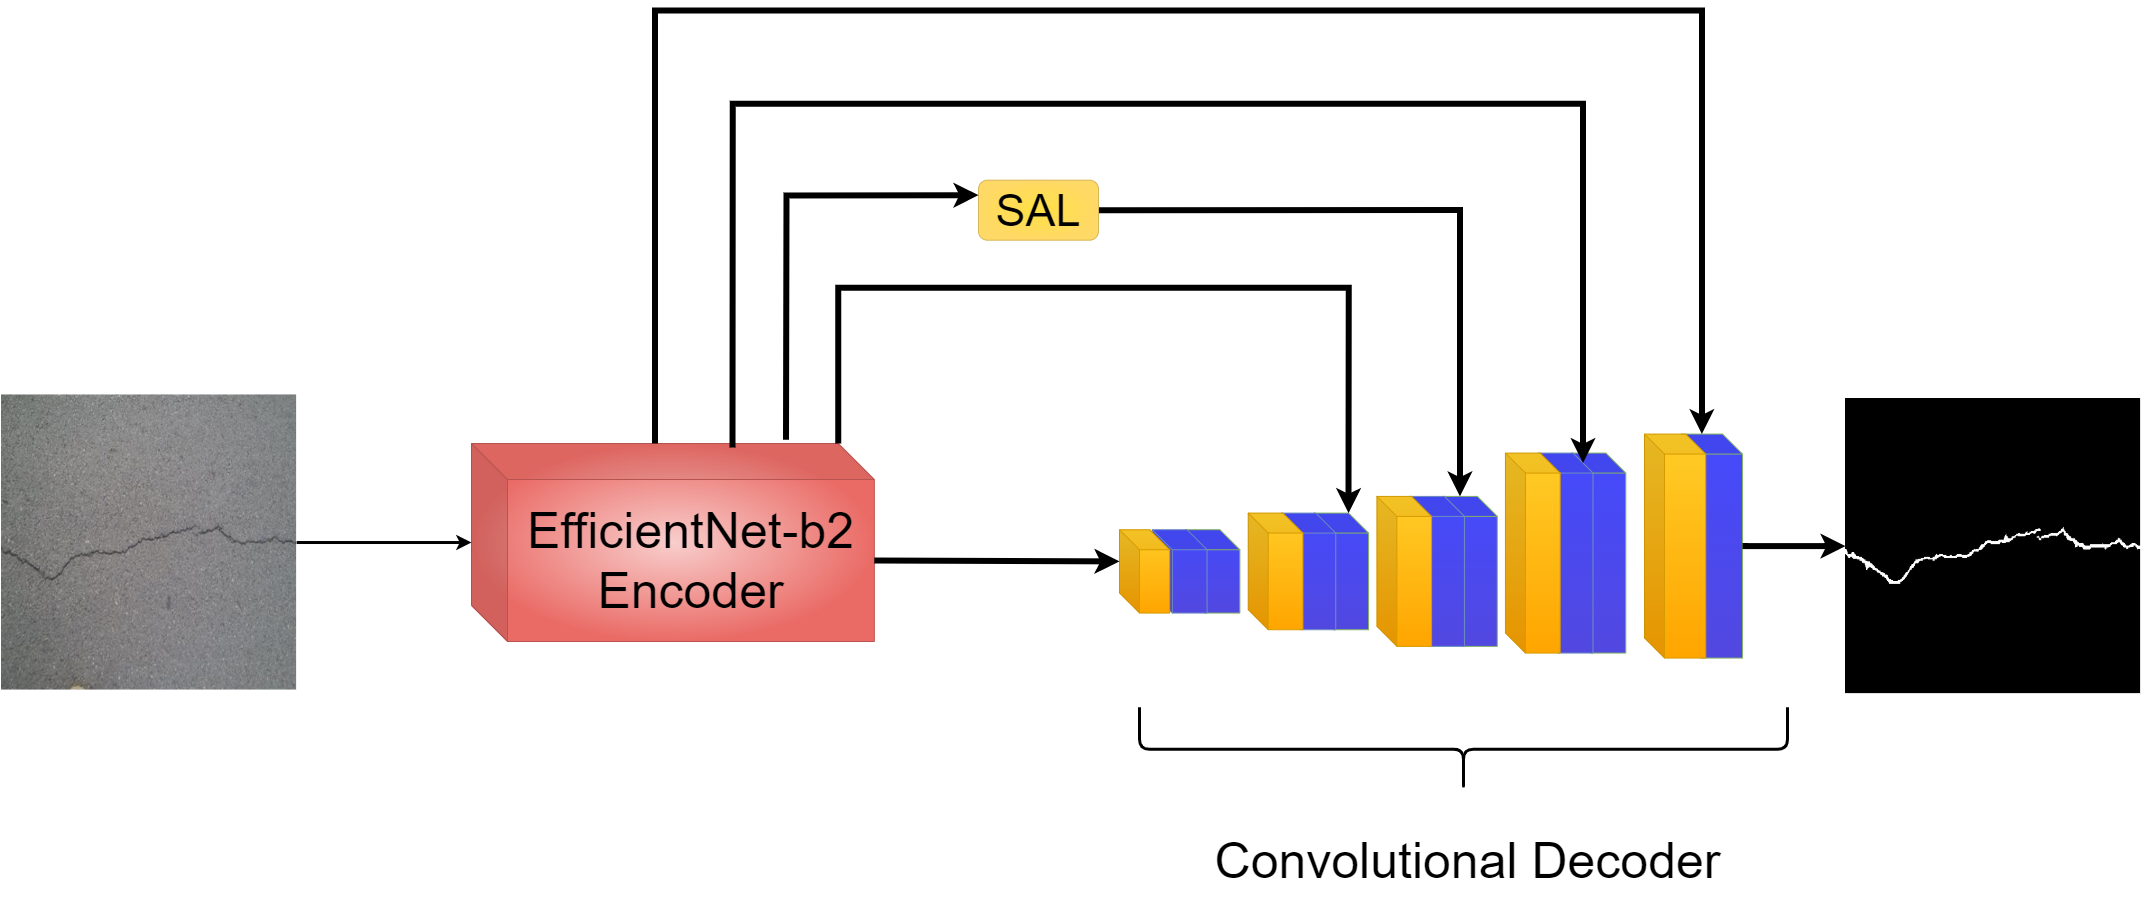
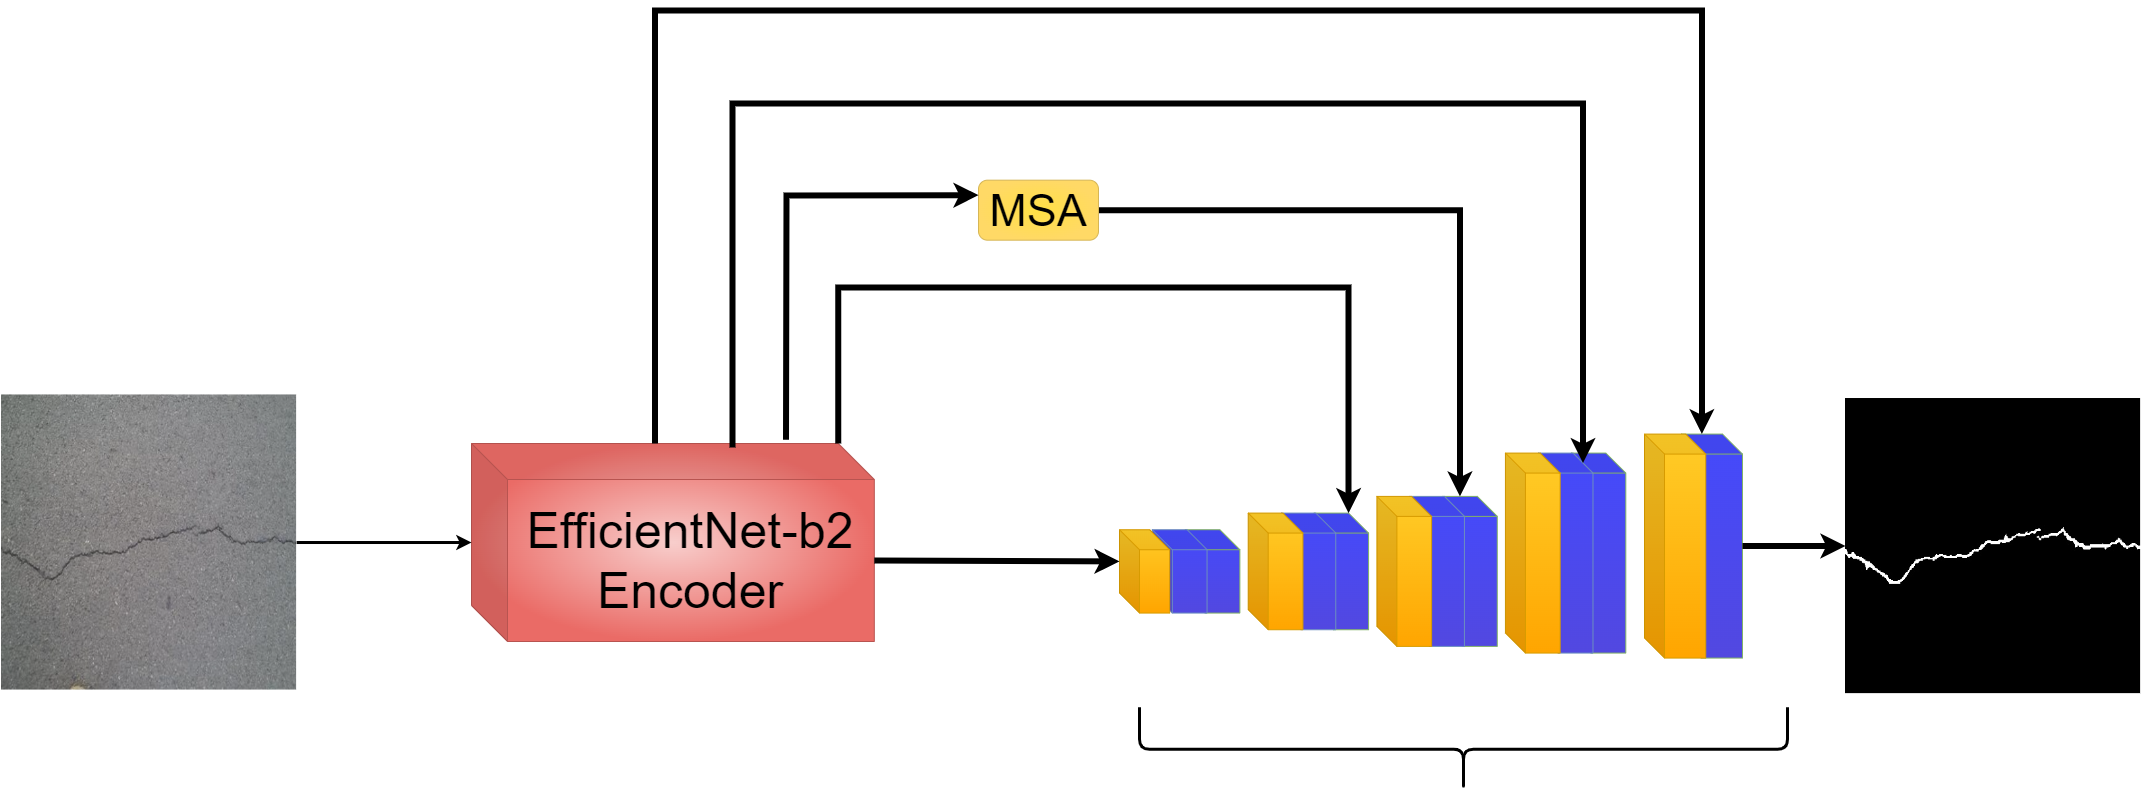
Documentation updated, evaluate script completeted, requirements.txt add

diff --git a/evaluate.py b/evaluate.py
@@ -1,0 +1,207 @@
+import argparse
+import os
+from glob import glob
+from time import time
+
+import pandas as pd
+from PIL import ImageOps, Image
+from torch.utils.data import DataLoader
+from torchvision import transforms
+from tqdm import tqdm
+
+from config import valLoaderConfig, modelConfig
+from dataset import CrackDataTest
+# local imports
+from model.modelMain import Unet
+from utils.utils import *
+
+
+def score_per_sample(model, dataset, criteria, save_path, split="test"):
+    results_test = {"img": [], "test_loss": [], "test_dice": [], "test_iou": [], "test_acc": [],
+                    "test_pre": [], "test_rec": [], "test_f1": []}
+    model = model.cpu()
+    idx = 0
+    with torch.inference_mode():
+        bar = tqdm(range(len(dataset)))
+        for i in bar:
+            images, masks, path = dataset[i]
+            images, masks = images.cpu(), masks.cpu()
+            images = images.unsqueeze(dim=0)
+
+            mask_pred = model(images)
+            masks_2 = (torch.sigmoid(mask_pred.cpu()) >= 0.5).int()
+
+            loss = criteria(masks_2, masks)
+            results_test['img'].append(path)
+            results_test['test_loss'].append(loss.item())
+            results_test['test_dice'].append(compute_dice2(masks_2, masks).item())
+            results_test['test_iou'].append(get_IoU(masks_2, masks).item())
+            results_test['test_acc'].append(accuracy(masks_2, masks).item())
+            p, r, f = precision_recall_f1(masks_2, masks)
+            results_test['test_pre'].append(p.item())
+            results_test['test_rec'].append(r.item())
+            results_test['test_f1'].append(f.item())
+            bar.set_description(f"Saving Test Results")
+            idx += 1
+
+    data_frame = pd.DataFrame(data=results_test)
+    data_frame.to_csv(f'{save_path}/results_per_image_{split}.csv')
+    return
+
+
+def plot_test(model, dataset, criteria, save_plots, save_path, split="test"):
+    idx = 0
+    if not os.path.exists(save_plots):
+        os.makedirs(save_plots)
+
+    results_test = {"img": [], "test_loss": [], "test_dice": [], "test_iou": [], "test_acc": [],
+                    "test_pre": [], "test_rec": [], "test_f1": []}
+    model = model.cpu()
+    with torch.no_grad():
+        bar = tqdm(range(len(dataset)))
+        for i in bar:
+            images, masks, path = dataset[i]
+            images, masks = images.cpu(), masks.cpu()
+            images = images.unsqueeze(dim=0)
+
+            mask_pred = model(images)
+            masks_2 = (torch.sigmoid(mask_pred.cpu()) >= 0.5).int()
+
+            loss = criteria(masks_2, masks)
+            results_test['img'].append(path)
+            results_test['test_loss'].append(loss.item())
+            results_test['test_dice'].append(compute_dice2(masks_2, masks).item())
+            results_test['test_iou'].append(get_IoU(masks_2, masks).item())
+            results_test['test_acc'].append(accuracy(masks_2, masks).item())
+            p, r, f = precision_recall_f1(masks_2, masks)
+            results_test['test_pre'].append(p.item())
+            results_test['test_rec'].append(r.item())
+            results_test['test_f1'].append(f.item())
+
+            # print(images.shape, masks.shape, masks_2.shape)
+            masks *= 255.
+            masks_2 = masks_2.squeeze(dim=0)
+            masks_2 = masks_2.to(torch.float)
+            masks_2 *= 255.
+            image = transforms.ToPILImage()(images[0])
+            gt = transforms.ToPILImage()(masks.byte().cpu())
+            pred = transforms.ToPILImage()(masks_2.byte().cpu())
+
+            image = ImageOps.expand(image, border=5, fill='white')
+            gt = ImageOps.expand(gt, border=5, fill='white')
+            pred = ImageOps.expand(pred, border=5, fill='white')
+
+            (img_width, img_height) = image.size
+            (gt_width, gt_height) = gt.size
+            (pred_width, pred_height) = pred.size
+
+            name = path.split('/')[-1][:-4]
+            final_width, final_height = (img_width + gt_width + pred_width), max(img_height,
+                                                                                 max(gt_height, pred_height))
+            result = Image.new('RGB', (final_width, final_height))
+            result.paste(im=image, box=(0, 0))
+            result.paste(im=gt, box=(img_width, 0))
+            result.paste(im=pred, box=(img_width + gt_width, 0))
+            result.save(f"{save_plots}/{name}_res.png")
+            bar.set_description(f"Saving Test Results")
+            idx += 1
+    data_frame = pd.DataFrame(data=results_test)
+    data_frame.to_csv(f'{save_path}/logs_finished_{split}.csv')
+    return
+
+
+def score(model, criteria, loader):
+    model.eval()
+    val_logs = init_log()
+    # Batch size should be 1
+    bar = tqdm(loader, dynamic_ncols=True)
+    start = time()
+    device = torch.device("cuda" if torch.cuda.is_available() else "cpu")
+    with torch.inference_mode():
+        for idx, data in enumerate(bar):
+            imgs, masks = data
+            imgs, masks = imgs.to(device), masks.to(device)
+
+            output = model(imgs)
+            output = output.squeeze(1)
+            op_preds = torch.sigmoid(output)
+            masks = masks.squeeze(1)
+            loss = criteria(op_preds, masks)
+
+            batch_size = imgs.size(0)
+            val_logs['loss'].update(loss.item(), batch_size)
+            val_logs['time'].update(time() - start)
+            val_logs['dice'].update(compute_dice2(op_preds, masks).item(), batch_size)
+            val_logs['iou'].update(get_IoU(op_preds, masks).item(), batch_size)
+            val_logs['acc'].update(accuracy(op_preds, masks).item(), batch_size)
+            p, r, f = precision_recall_f1(op_preds, masks)
+            val_logs['precision'].update(p.item(), batch_size)
+            val_logs['recall'].update(r.item(), batch_size)
+            val_logs['f1'].update(f.item(), batch_size)
+
+    return val_logs
+
+
+def getTestDataLoader(dfTest, **kwargs):
+    dataTest = CrackDataTest(dfTest,
+                             img_transforms=kwargs['val_data']['transforms'],
+                             mask_transform=kwargs['val_data']['transforms'],
+                             aux_transforms=None)
+    testLoader = DataLoader(dataTest,
+                            batch_size=kwargs['val_data']['batch_size'],
+                            shuffle=kwargs['val_data']['suffle'],
+                            pin_memory=torch.cuda.is_available(),
+                            num_workers=kwargs['val_data']['num_workers'])
+
+    return testLoader, dataTest
+
+
+def buildModel(config, modelPath=""):
+    device = torch.device("cuda" if torch.cuda.is_available() else "cpu")
+    model = Unet(encoder_name=config['encoderBackbone'])
+    model = model.to(device)
+    print("loading best model...")
+    model.load_state_dict(torch.load(modelPath, map_location=device))
+    return model
+
+
+def buildDataset(imgs_path, masks_path):
+    data = {
+        'images': sorted(glob(imgs_path + "/*.jpg")),
+        'masks': sorted(glob(masks_path + "/*.png"))
+    }
+
+    # test to see if there are images coresponding to masks
+    for img_path, mask_path in zip(data['images'], data['masks']):
+        assert img_path[:-4] == mask_path[:-4]
+
+    df = pd.DataFrame(data)
+    testLoader, dataTest = getTestDataLoader(df, val_data=valLoaderConfig)
+
+    return testLoader, dataTest
+
+
+if __name__ == '__main__':
+    parser = argparse.ArgumentParser()
+    parser.add_argument("--path_images", type=str, help="Enter path to images folder.")
+    parser.add_argument("--path_masks", type=str, help="Enter path to masks folder.")
+    parser.add_argument("--model_path", type=str, help="Path to model")
+    parser.add_argument("--result_path", type=str, help="Path to results")
+    parser.add_argument("--plot_path", type=str, help="Path where plot or predictions would be saved")
+
+    args = parser.parse_args()
+
+    image_path = args.path_images
+    masks_path = args.path_masks
+    model_path = args.model_path
+    plot_path = args.plot_path
+    out_path = args.result_path
+
+    testLoader, testDataset = buildDataset(image_path, masks_path)
+    model = buildModel(modelConfig, model_path)
+    criteria = TverskyLoss()
+
+    testLog = score(model, criteria, testLoader)
+    plot_test(model, testDataset, criteria, out_path, plot_path)
+
+

diff --git a/train.py b/train.py
@@ -13,28 +13,13 @@ import os
 
 # local imports
 from model.modelMain import Unet
-from dataLoader import CrackData
-from utils.averageMeter import AverageMeter
+from dataset import CrackData
 from utils.callbacks import CallBacks
 from utils.utils import *
 from utils.lrSchedular import OneCycleLR
-from config import train_loader_config, val_loader_config
+from config import trainLoaderConfig, valLoaderConfig, modelConfig
 
 RANDOM_STATE = 42
-
-
-def init_log():
-    log = {
-        'loss': AverageMeter(),
-        'time': AverageMeter(),
-        'iou': AverageMeter(),
-        'dice': AverageMeter(),
-        'acc': AverageMeter(),
-        'precision': AverageMeter(),
-        'recall': AverageMeter(),
-        'f1': AverageMeter()
-    }
-    return log
 
 
 def train_step(model, optim, criteria, loader, accumulation_steps, scaler, epoch, max_epochs):
@@ -148,9 +133,9 @@ def getDataLoaders(dfTrain, dfVal, **kwargs):
     return trainLoader, valLoader
 
 
-def buildModel(encoderBackbone='efficientnet-b2'):
+def buildModel(config):
     device = torch.device("cuda" if torch.cuda.is_available() else "cpu")
-    model = Unet(encoder_name=encoderBackbone)
+    model = Unet(encoder_name=config['encoderBackbone'])
     model = model.to(device)
     return model
 
@@ -169,8 +154,8 @@ def buildDataset(imgs_path, masks_path):
     dfTrain, dfVal = train_test_split(df, test_size=0.2, random_state=RANDOM_STATE, shuffle=True)
     trainLoader, valLoader = getDataLoaders(dfTrain,
                                             dfVal,
-                                            training_data=train_loader_config,
-                                            val_data=val_loader_config)
+                                            training_data=trainLoaderConfig,
+                                            val_data=valLoaderConfig)
 
     return trainLoader, valLoader
 
@@ -188,7 +173,7 @@ if __name__ == "__main__":
 
     trainLoader, valLoader = buildDataset(image_path, masks_path)
 
-    model = buildModel(encoderBackbone='efficientnet-b2')
+    model = buildModel(modelConfig)
 
     lr = 0.09
     device = torch.device("cuda" if torch.cuda.is_available() else "cpu")

diff --git a/dataset.py b/dataset.py
@@ -41,6 +41,39 @@ class CrackData(Dataset):
         return image, mask
 
 
+class CrackDataTest(Dataset):
+    def __init__(self, df, img_transforms=None, mask_transform=None, aux_transforms=None):
+        self.data = df
+        self.img_transform = img_transforms
+        self.mask_transform = mask_transform
+        self.aux_transforms = aux_transforms
+
+    def __len__(self):
+        return len(self.data)
+
+    def __getitem__(self, idx):
+        img = Image.open(self.data['images'].iloc[idx]).convert('RGB')
+        mask = Image.open(self.data['masks'].iloc[idx]).convert('L')
+
+        if self.aux_transforms is not None:
+            img = self.aux_transforms(img)
+
+        seed = np.random.randint(420)
+
+        random.seed(seed)
+        torch.manual_seed(seed)
+
+        img = transforms.functional.equalize(img)
+        image = self.img_transform(img)
+
+        random.seed(seed)
+        torch.manual_seed(seed)
+
+        mask = self.mask_transform(mask)
+
+        return image, mask, self.data['images'].iloc[idx]
+
+
 if __name__ == '__main__':
     dfT = {
         'images': ['../temp/test_img.jpg'],

diff --git a/config.py b/config.py
@@ -1,6 +1,6 @@
 from torchvision import transforms
 
-train_loader_config = {
+trainLoaderConfig = {
     'transforms': transforms.Compose([
         transforms.Resize((320, 320)),
         transforms.RandomHorizontalFlip(p=0.5),
@@ -12,11 +12,15 @@ train_loader_config = {
     'num_workers': 2
 }
 
-val_loader_config = {
+valLoaderConfig = {
     'transforms': transforms.Compose([transforms.Resize((320, 320)),
                                       transforms.ToTensor(),
                                       ]),
     'batch_size': 8,
     'shuffle': False,
     'num_workders': 2
+}
+
+modelConfig = {
+    'encoderBackbone': 'efficientnet-b2'
 }

diff --git a/utils/utils.py b/utils/utils.py
@@ -2,6 +2,21 @@ import torch
 from torch import nn
 import numpy as np
 from torch.nn import functional as F
+from averageMeter import AverageMeter
+
+
+def init_log():
+    log = {
+        'loss': AverageMeter(),
+        'time': AverageMeter(),
+        'iou': AverageMeter(),
+        'dice': AverageMeter(),
+        'acc': AverageMeter(),
+        'precision': AverageMeter(),
+        'recall': AverageMeter(),
+        'f1': AverageMeter()
+    }
+    return log
 
 
 def compute_dice2(pred, gt):

diff --git a/README.md b/README.md
@@ -21,9 +21,22 @@ python train.py --path_imgs "path_to_image_folder" --path_masks "path_to_mask_fo
 
 <hr>
 
+## Evaluate Model
+```commandline
+python evaluate.py
+```
+<hr>
 ## Model Architecture
 <br>
+<figure>
 <img src="assets/MainArchitecture.drawio Conf.png">
+<figcaption align = "center"><b>Fig.1 - Main Architecture</b></figcaption>
+</figure>
+<br>
+<figure>
+<img src="assets/MultiScaleAttention.drawio.png">
+<figcaption align = "center"><b>Fig.2 - Multi Scale Attention</b></figcaption>
+</figure>
 <hr>
 
 ## Dataset
@@ -56,11 +69,13 @@ the testing set
     <td>0.663</td>
     </tr>
 </table>
+<br>
+<figure>
+<figcaption><b>RGB Image</b>  &ensp;&ensp;&ensp;&ensp;  <b>Ground Truth</b>&ensp;&ensp;&ensp;&ensp;<b>Prediction (Model Output)</b></figcaption>
 
-&ensp;&ensp;&ensp;<b>RGB Image</b>  &ensp;&ensp;&ensp;&ensp;  <b>Ground Truth</b>&ensp;&ensp;&ensp;&ensp;<b>Prediction (Model Output)</b>
-
-&ensp;&ensp;&ensp;&ensp;<img src="assets/result_imgs_crack500.drawio.png">
-
+<img src="assets/result_imgs_crack500.drawio.png">
+<figcaption align="center"><b>Fig 3: Result From model</b></figcaption>
+</figure>
 <hr>
 
 ## Resouces
